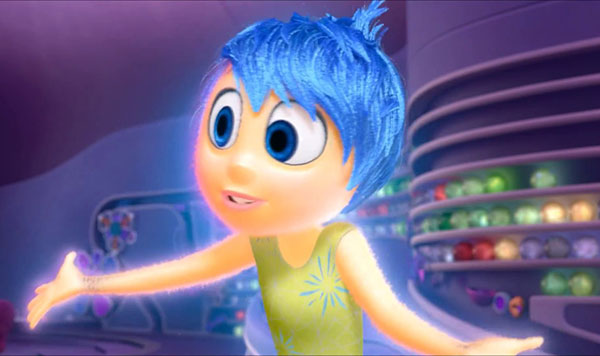
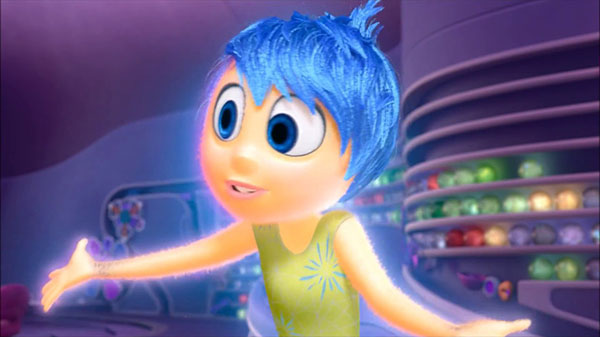
Changed all IDs to Classes and resized images again

diff --git a/assets/javascript/game.js b/assets/javascript/game.js
@@ -7,18 +7,25 @@ var losses = 0;
 var guessesRemaining = 10;
 var characterImageOutput;
 var movie;
-var gameImage;
 var gameStarted = false;
+
+// Divs
+
+var characterImage = document.getElementsByClassName("character-image")[0];
+var winsDiv = document.getElementsByClassName("wins")[0];
+var lossesDiv = document.getElementsByClassName("losses")[0];
+var guessesRemainingDiv = document.getElementsByClassName("guesses-remaining")[0];
+var currentWordDiv = document.getElementsByClassName("current-word")[0];
+var messageDiv = document.getElementsByClassName("message")[0];
+var userGuessesDiv = document.getElementsByClassName("user-guesses")[0];
+var youtubeVideo = document.getElementsByClassName("video-pixar-logo")[0];
 
 // Sounds
 
-var winSound = document.getElementById("win-sound");
-var loseSound = document.getElementById("lose-sound");
-var correctPress = document.getElementById("correct-press-sound");
-var wrongPress = document.getElementById("wrong-press-sound");
-
-// Youtube Video
-var youtubeVideo = document.getElementById("video-pixar-logo");
+var winSound = document.getElementsByClassName("win-sound")[0];
+var loseSound = document.getElementsByClassName("lose-sound")[0];
+var correctPress = document.getElementsByClassName("correct-press-sound")[0];
+var wrongPress = document.getElementsByClassName("wrong-press-sound")[0];
 
 //------------------------------------------------------------
 //----------- ARRAYS
@@ -37,16 +44,6 @@ var wrongGuesses = [];
 var randomCharacter = [];
 var upperCaseWord = [];
 var characterImageLetters = [];
-
-//------------------------------------------------------------
-//----------- GRAB ELEMENTS BY ID
-//------------------------------------------------------------
-
-var characterImage = document.querySelector(".character-image");
-
-document.getElementById("wins").innerHTML = wins;
-document.getElementById("losses").innerHTML = losses;
-document.getElementById("guesses-remaining").innerHTML = guessesRemaining;
 
 //------------------------------------------------------------
 //----------- LOGIC
@@ -71,6 +68,7 @@ function newGame() {
     // Changes letters to uppercase
     upperCaseWord = randomCharacter.toUpperCase();
 
+    // Defines which movies each character is from
     if (randomCharacter === "Flik" || randomCharacter === "Princess Atta" || randomCharacter === "Hopper") {
         movie = "A Bug's Life";
     } else if (randomCharacter === "Merida" || randomCharacter === "King Fergus" || randomCharacter === "Queen Elinor") {
@@ -104,7 +102,7 @@ function newGame() {
         var placeHolder = currentWord.join("");    
     };
 
-    document.getElementById("current-word").innerHTML = placeHolder;
+    currentWordDiv.innerHTML = placeHolder;
     characterImageOutput = characterImageLetters.join(""); // To be used for image source
     
     // Logs the chosen Pixar character name to the console
@@ -160,8 +158,8 @@ document.onkeyup = function(event) {
         // Character name displays at top
         // Character image displays
         if (winningWord === upperCaseWord) {
-            document.getElementById("message").innerHTML = "<h2>You win!<br>" + randomCharacter + " is from " + movie + "</h2>";
-            document.getElementById("pixar-img").setAttribute("src", "assets/images/" + characterImageOutput +".jpg");
+            messageDiv.innerHTML = "<h2>You win!<br>" + randomCharacter + " is from " + movie + "</h2>";
+            characterImage.setAttribute("src", "assets/images/" + characterImageOutput +".jpg");
             winSound.pause();
             winSound.currentTime = 0;
             winSound.play();
@@ -173,18 +171,18 @@ document.onkeyup = function(event) {
         // Character name displays at top
         // Character image displays
         if (guessesRemaining === 0) {
-            document.getElementById("message").innerHTML = "<h2>Sorry! You Lose.<br>" + randomCharacter + " was the correct character.</h2>";
-            document.getElementById("pixar-img").setAttribute("src", "assets/images/" + characterImageOutput +".jpg");
+            messageDiv.innerHTML = "<h2>Sorry! You Lose.<br>" + randomCharacter + " was the correct character.</h2>";
+            characterImage.setAttribute("src", "assets/images/" + characterImageOutput +".jpg");
             loseSound.play();
             losses++;
             newGame();
         }
 
-        document.getElementById("user-guesses").innerHTML = wrongGuesses.join(" ");
-        document.getElementById("wins").innerHTML = wins;
-        document.getElementById("losses").innerHTML = losses;
-        document.getElementById("guesses-remaining").innerHTML = guessesRemaining;
-        document.getElementById("current-word").innerHTML = currentWord.join("");
+        userGuessesDiv.innerHTML = wrongGuesses.join(" ");
+        winsDiv.innerHTML = wins;
+        lossesDiv.innerHTML = losses;
+        guessesRemainingDiv.innerHTML = guessesRemaining;
+        currentWordDiv.innerHTML = currentWord.join("");
         
         console.log(winningWord);
         console.log(upperCaseWord);

diff --git a/index.html b/index.html
@@ -21,7 +21,7 @@
 		<div class="jumbotron text-center">
 			<h1>Hangman</h1>
 			<h2>Guess the Pixar Character</h2>
-			<div id="message"><h2>Press any key to get started!</h2></div>
+			<div class="message"><h2>Press any key to get started!</h2></div>
 		</div> <!-- /jumbotron -->
 
 		<div class="container">
@@ -30,13 +30,13 @@
 
 				<div class="col-md-6">
 
-					<div id="game-image-wrapper">
+					<div class="game-image-wrapper">
 
-						<div id="video-pixar-logo" class="embed-responsive embed-responsive-16by9 pixar-logo">
+						<div class="embed-responsive embed-responsive-16by9 video-pixar-logo">
 							<iframe src="https://www.youtube.com/embed/50rAKjuTXbc?rel=0&amp;controls=0&amp;showinfo=0&autoplay=1" frameborder="0" gesture="media" allow="encrypted-media" allowfullscreen></iframe>
 						</div>
 
-						<img src="assets/images/pixar-logo.jpg" alt="Pixar" id="pixar-img" class="character-image">
+						<img src="assets/images/pixar-logo.jpg" alt="Pixar" class="character-image">
 
 					</div> <!-- /game-image-wrapper -->
 					
@@ -50,7 +50,7 @@
 								
 							<h3>Wins</h3>
 
-							<p id="wins" class="focus">0</p>
+							<p class="wins focus">0</p>
 
 						</div>
 
@@ -58,7 +58,7 @@
 								
 							<h3>Losses</h3>
 
-							<p id="losses" class="focus">0</p>
+							<p class="losses focus">0</p>
 
 						</div>
 
@@ -66,15 +66,15 @@
 
 					<h3>Current Word</h3>
 
-					<p id="current-word" class="focus">&nbsp;</p>
+					<p class="current-word focus">&nbsp;</p>
 
 					<h3>Number of Guesses Remaining</h3>
 
-					<p id="guesses-remaining" class="focus">10</p>
+					<p class="guesses-remaining focus">10</p>
 
 					<h3>Letters Already Guessed</h3>
 
-					<p id="user-guesses" class="focus"></p>
+					<p class="user-guesses focus"></p>
 
 				</div>
 
@@ -86,10 +86,10 @@
 
 	<footer class="footer"></footer>
 
-	<audio id="win-sound" src="assets/audio/win.mp3" autostart="false"></audio>
-	<audio id="lose-sound" src="assets/audio/lose.mp3" autostart="false"></audio>
-	<audio id="correct-press-sound" src="assets/audio/correct-press.mp3" autostart="false"></audio>
-	<audio id="wrong-press-sound" src="assets/audio/wrong-press.mp3" autostart="false"></audio>
+	<audio class="win-sound" src="assets/audio/win.mp3" autostart="false"></audio>
+	<audio class="lose-sound" src="assets/audio/lose.mp3" autostart="false"></audio>
+	<audio class="correct-press-sound" src="assets/audio/correct-press.mp3" autostart="false"></audio>
+	<audio class="wrong-press-sound" src="assets/audio/wrong-press.mp3" autostart="false"></audio>
 	
 	<!-- Bootstrap core JavaScript
 	================================================== -->

diff --git a/assets/css/style.css b/assets/css/style.css
@@ -43,9 +43,9 @@ body {
     width: 100%;
 }
 
-.pixar-logo {
+.video-pixar-logo {
     position: absolute;
-    width: calc(100% - 30px);
+    width: 100%;
     margin-top: 25px;
     opacity: 1;
     -webkit-transition: opacity 3000ms linear;
